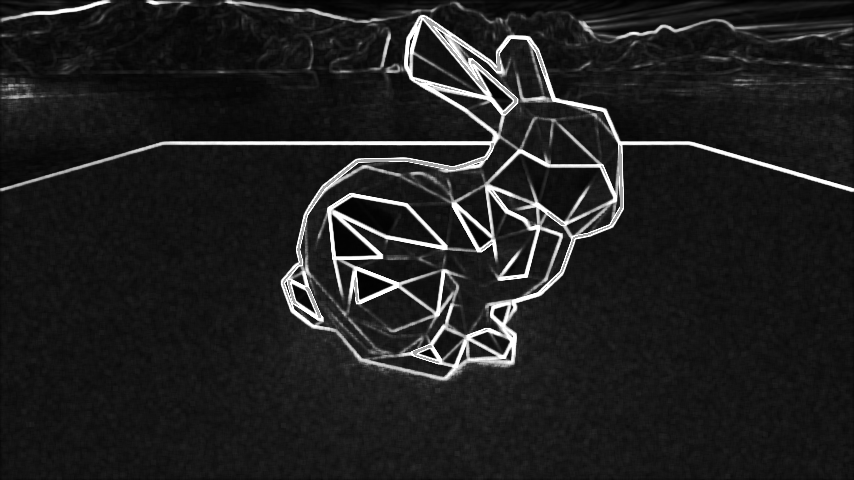
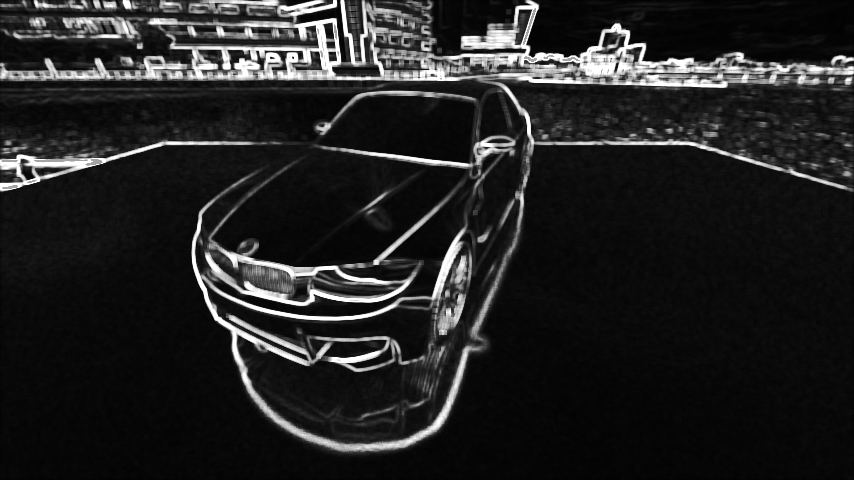
Readonly textures

Changed region(s): [[0.0, 0.0, 1.0, 1.0], [0.6393, 0.875, 0.6698, 0.9062], [0.4567, 0.9688, 0.4871, 1.0]]

diff --git a/ForceRenderer/IO/Texture.cs b/ForceRenderer/IO/Texture.cs
@@ -1,4 +1,6 @@
 using System.Collections.ObjectModel;
+using System.Data;
+using System.Diagnostics;
 using System.Drawing;
 using System.Drawing.Imaging;
 using System.IO;
@@ -42,10 +44,12 @@ namespace ForceRenderer.IO
 			PixelFormat format = source.PixelFormat;
 
 			size = new Int2(source.Width, source.Height);
+			isReadonly = true;
+
 			oneLess = size - Int2.one;
 			aspect = (float)size.x / size.y;
-
 			length = size.Product;
+
 			pixels = new Color32[length];
 
 			Rectangle rectangle = new Rectangle(0, 0, size.x, size.y);
@@ -85,34 +89,58 @@ namespace ForceRenderer.IO
 			source.UnlockBits(data);
 		}
 
-		public Texture(Int2 size)
+		public Texture(Int2 size, bool isReadonly = false) : this(size, new Color32[size.Product], isReadonly) { }
+
+		Texture(Int2 size, Color32[] pixels, bool isReadonly)
 		{
 			this.size = size;
+			this.isReadonly = isReadonly;
+
 			oneLess = size - Int2.one;
 			aspect = (float)size.x / size.y;
-
 			length = size.Product;
-			pixels = new Color32[length];
+
+			if (pixels.Length == length) this.pixels = pixels;
+			else throw ExceptionHelper.Invalid(nameof(pixels), pixels, "has mismatched length.");
 		}
 
 		readonly Color32[] pixels;
 
 		public readonly Int2 size;
-		readonly Int2 oneLess;
+		public readonly bool isReadonly;
 
+		readonly Int2 oneLess;
 		public readonly float aspect; //Width over height
 		public readonly int length;
 
 		public static readonly ReadOnlyCollection<string> compatibleExtensions = new ReadOnlyCollection<string>(new[] {".png", ".jpg", ".tiff", ".bmp", ".gif", ".exif"});
 		static readonly ReadOnlyCollection<ImageFormat> compatibleFormats = new ReadOnlyCollection<ImageFormat>(new[] {ImageFormat.Png, ImageFormat.Jpeg, ImageFormat.Tiff, ImageFormat.Bmp, ImageFormat.Gif, ImageFormat.Exif});
 
+		public static readonly Texture white = new Texture(Int2.one, new[] {Color32.white}, true);
+		public static readonly Texture black = new Texture(Int2.one, new[] {Color32.black}, true);
+
 		public Color32 GetPixel(int index) => pixels[index];
 		public Color32 GetPixel(Int2 position) => GetPixel(ToIndex(position));
 		public Color32 GetPixel(Float2 uv) => GetPixel(ToIndex(uv));
 
-		public void SetPixel(int index, Color32 value) => pixels[index] = value;
+		public void SetPixel(int index, Color32 value)
+		{
+			if (!isReadonly) pixels[index] = value;
+			else throw new ReadOnlyException();
+		}
+
 		public void SetPixel(Int2 position, Color32 value) => SetPixel(ToIndex(position), value);
 		public void SetPixel(Float2 uv, Color32 value) => SetPixel(ToIndex(uv), value);
+
+		public Int2 ToPosition(Float2 uv) => (uv * size).Floored.Clamp(Int2.zero, oneLess);
+		public Int2 ToPosition(int index) => new Int2(index % size.x, oneLess.y - index / size.x);
+
+		public int ToIndex(Int2 position) => position.x + (oneLess.y - position.y) * size.x;
+		public int ToIndex(Float2 uv) => ToIndex(ToPosition(uv));
+
+		public Float2 ToUV(Int2 position) => (position + Float2.half) / size;
+		public Float2 ToUV(Float2 position) => position / size;
+		public Float2 ToUV(int index) => ToUV(ToPosition(index));
 
 		public void SaveFile(string relativePath)
 		{
@@ -160,15 +188,5 @@ namespace ForceRenderer.IO
 			bitmap.UnlockBits(bits);
 			bitmap.Save(path, compatibleFormats[extensionIndex]);
 		}
-
-		public Int2 ToPosition(Float2 uv) => (uv * size).Floored.Clamp(Int2.zero, oneLess);
-		public Int2 ToPosition(int index) => new Int2(index % size.x, oneLess.y - index / size.x);
-
-		public int ToIndex(Int2 position) => position.x + (oneLess.y - position.y) * size.x;
-		public int ToIndex(Float2 uv) => ToIndex(ToPosition(uv));
-
-		public Float2 ToUV(Int2 position) => (position + Float2.half) / size;
-		public Float2 ToUV(Float2 position) => position / size;
-		public Float2 ToUV(int index) => ToUV(ToPosition(index));
 	}
 }

diff --git a/ForceRenderer/Scenes.cs b/ForceRenderer/Scenes.cs
@@ -136,11 +136,11 @@ namespace ForceRenderer
 			const int SmoothnessLevel = 10;
 			const int SpecularLevel = 4;
 
-			for (int i = 0; i <= SmoothnessLevel; i++)
+			for (float i = 0f; i <= SmoothnessLevel; i++)
 			{
-				for (int j = 0; j <= SpecularLevel; j++)
+				for (float j = 0f; j <= SpecularLevel; j++)
 				{
-					Material material = new Material {Specular = (Float3)((float)j / SpecularLevel), Smoothness = (float)i / SmoothnessLevel};
+					Material material = new Material {Specular = Float3.Lerp(Float3.one, new Float3(0.867f, 0.267f, 0.298f), j / SpecularLevel), Smoothness = i / SmoothnessLevel};
 					children.Add(new SphereObject(material, 0.45f) {Position = new Float3(i - SmoothnessLevel / 2f, j - SpecularLevel / 2f, 2f)});
 				}
 			}

diff --git a/ForceRenderer/Renderers/PathTraceWorker.cs b/ForceRenderer/Renderers/PathTraceWorker.cs
@@ -51,7 +51,7 @@ namespace ForceRenderer.Renderers
 			Cubemap skybox = profile.scene.Cubemap;
 			PressedDirectionalLight sun = profile.pressed.directionalLight;
 
-			if (skybox != null) light += energy * (Float3)skybox.Sample(ray.direction) * 1.6f;
+			if (skybox != null) light += energy * (Float3)skybox.Sample(ray.direction);
 			if (sun.direction != default) light += energy * sun.intensity * -sun.direction.Dot(ray.direction).Clamp(-1f, 0f); //Sun not really working right now
 
 			return light;

diff --git a/ForceRenderer/Program.cs b/ForceRenderer/Program.cs
@@ -65,7 +65,7 @@ namespace ForceRenderer
 			Texture buffer = new Texture(resolutions[1]);
 			using RenderEngine engine = new RenderEngine
 										{
-											RenderBuffer = buffer, Scene = new BunnyScene(),
+											RenderBuffer = buffer, Scene = new SingleBMWScene(),
 											PixelSample = 128, TileSize = 100
 										};
 

diff --git a/ForceRenderer/IO/Material.cs b/ForceRenderer/IO/Material.cs
@@ -8,6 +8,9 @@ namespace ForceRenderer.IO
 		public Float3 Albedo { get; set; }
 		public Float3 Specular { get; set; }
 
+		public Texture AlbedoTexture = Texture.white;
+		public Texture SpecularTexture = Texture.black;
+
 		public Float3 Emission { get; set; }
 		public float Smoothness { get; set; }
 	}
